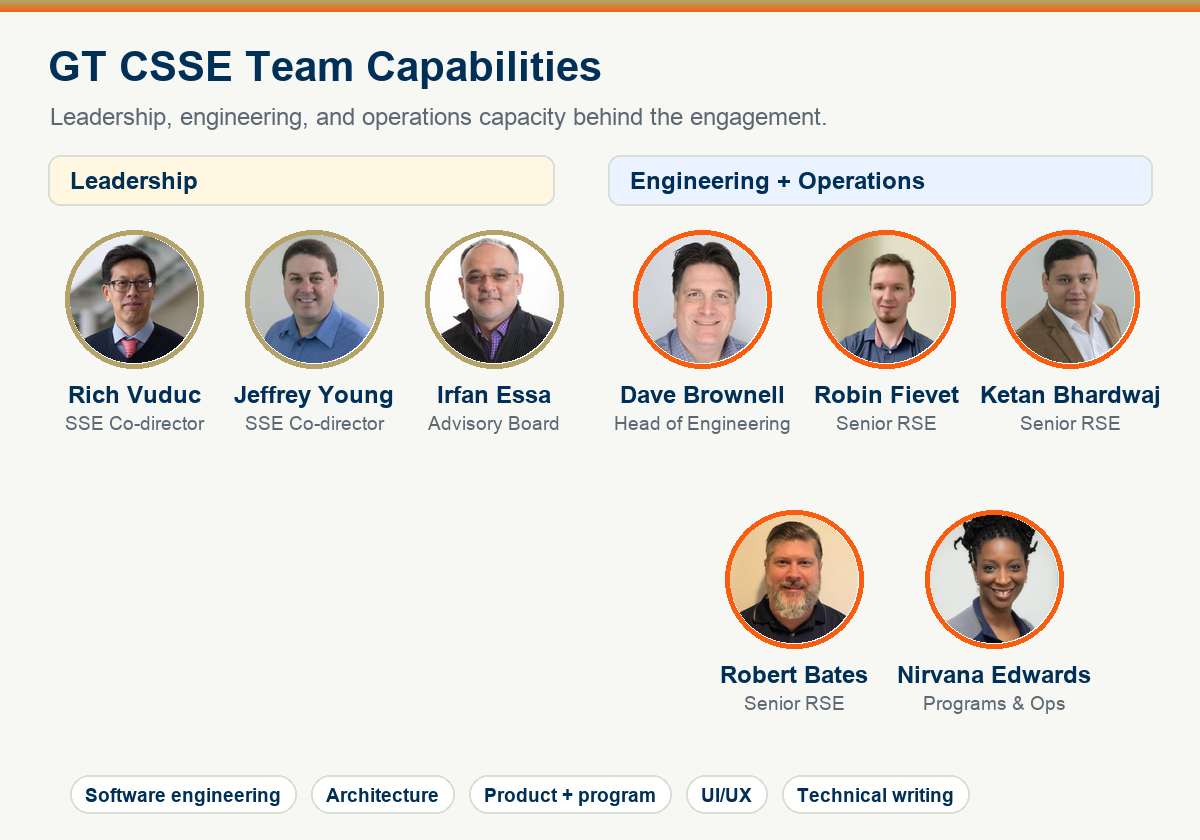
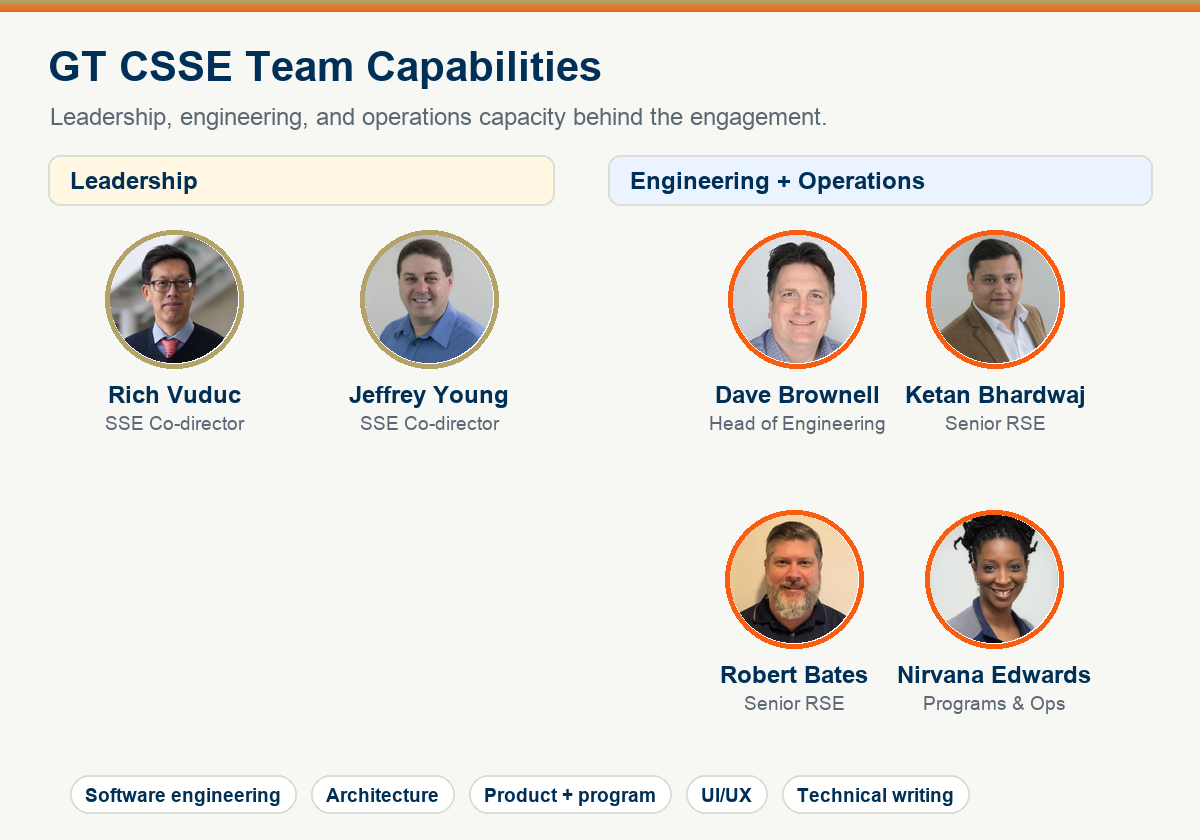
modifications based on feedback

Changed region(s): [[0.4933, 0.2476, 0.9867, 0.5262], [0.0308, 0.2476, 0.4625, 0.5262], [0.4625, 0.3405, 0.4933, 0.3714]]

diff --git a/slides/inat-inquire-demo.marp.md b/slides/inat-inquire-demo.marp.md
@@ -347,11 +347,11 @@ From research software risk to measurable, inspectable outcomes.
 
 Research software risk is often invisible until a team tries to use it beyond the prototype.
 
-| Risk | What It Looks Like | Director Impact |
+| Risk | What It Looks Like | Team's Impact |
 | --- | --- | --- |
 | Intangible outcomes | Demo code, notebooks, or one-off scripts that do not transfer into operation | Hard to fund, evaluate, or reuse |
 | Unclear impact | Users cannot tell whether the software improves the research workflow | Adoption and stakeholder trust stall |
-| Low quality | Fragile pipelines, missing provenance, weak tests, no scale path | Reproducibility and sustainability become unfunded liabilities |
+| Low quality | Fragile pipelines, weak tests, no scale path | Reproducibility and sustainability is questionable |
 
 ---
 
@@ -363,7 +363,7 @@ CSSE turns research ambition into software evidence a sponsor can inspect.
 
 | Tangible Outcomes | Real Impact | Production Quality |
 | --- | --- | --- |
-| Working systems, not just diagrams | Workflow evidence tied to scientific use | Source traceability, tests, metrics, and runbooks |
+| Working systems, not just diagrams | Workflow evidence tied to scientific use | Source traceability, tests, and metrics |
 | Clear artifacts for PIs, RSEs, and directors | Usability, maintainability, and operational fit | Reproducibility, scalability, and reviewable architecture |
 | Portfolio proof points across engagements | A basis for the next investment decision | A credible path from local proof to managed service |
 
@@ -388,7 +388,7 @@ CSSE turns research ambition into software evidence a sponsor can inspect.
 
 <!-- _class: demo -->
 
-## Live Demo / Video
+## Live Demo / Video (Optional)
 
 The demo makes the risk visible as an operating workflow, not a static claim.
 
